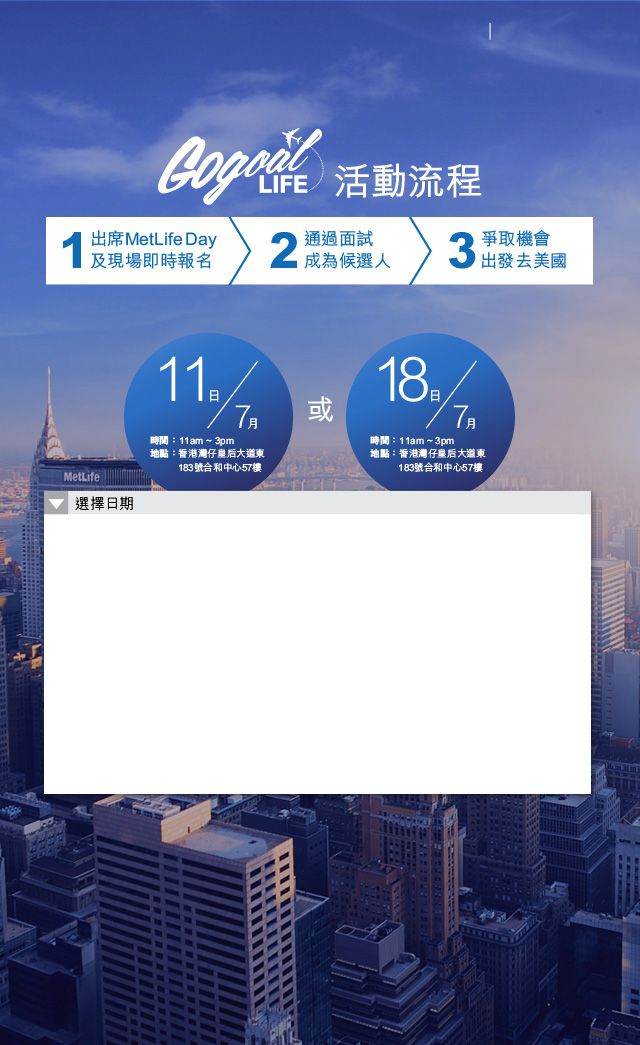
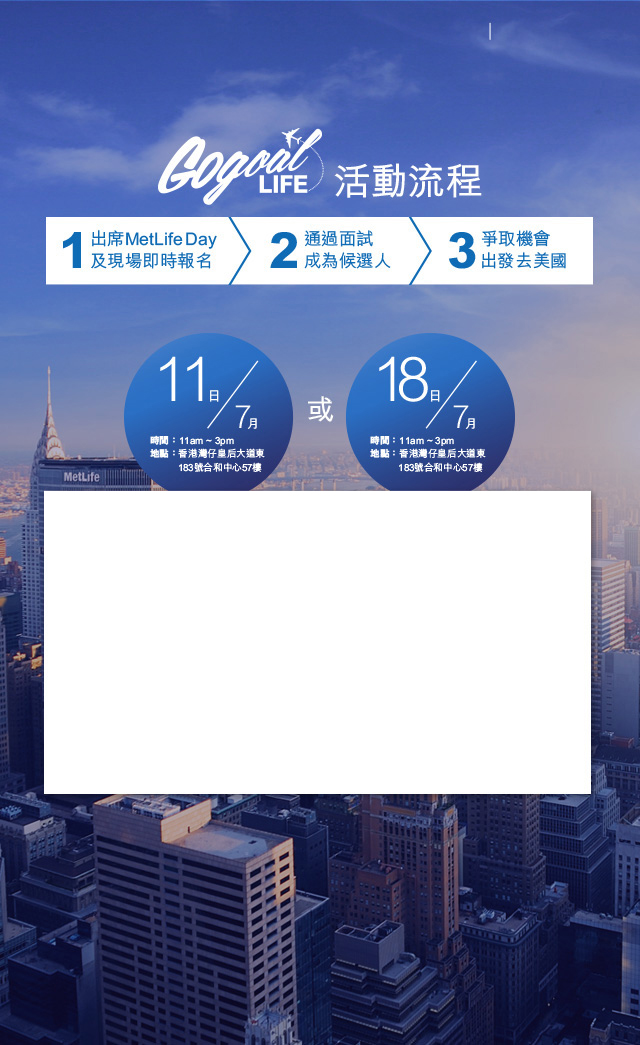
added tnc error message

Changed region(s): [[0.0625, 0.4593, 0.9375, 0.49]]

diff --git a/client/styles/main.scss b/client/styles/main.scss
@@ -40,7 +40,8 @@ canvas{ display:none !important; opacity: 0!important; }
 #form{
     height:795px; background-image: url(../images/guide-form.jpg);
     .formContainer{
-        position: absolute; width: 667px; height: 266px; top: 498px; left: 71px; overflow: scroll;
+        position: absolute; width: 667px; height: 296px; top: 470px; left: 71px; 
+        overflow-y: scroll; overflow-x: hidden;
         .container{ 
             width:667px; height:414px; padding-bottom:20px; position:relative; 
             .formUpper{ height:220px; overflow: hidden; }
@@ -77,6 +78,11 @@ canvas{ display:none !important; opacity: 0!important; }
             .tncInput{ 
                 width: 20px; text-align: center; height: 20px; top: 366px; left: 617px; 
                 position: absolute; margin: 0; 
+                .errorMsg{ 
+                    background-image: url(../images/error-message-tnc.jpg); 
+                    width: 228px; height: 14px; position: absolute; right: 0; top: 20px; display:none;
+                }
+                &.empty .errorMsg{ display:block; }
             }
             .date{ 
                 width: 100%; height: 19px; margin-top:25px;
@@ -97,7 +103,7 @@ canvas{ display:none !important; opacity: 0!important; }
                 }
             }
         }
-        .submitBtnContain{ position:absolute; bottom:-10px; left:0; width:100%; height:50px; }
+        .submitBtnContain{ position:absolute; bottom:-10px; left:0; width:100%; height:30px; }
     }
     .submitBtn{ 
         width: 154px; height: 27px; margin:0 auto;
@@ -174,7 +180,7 @@ canvas{ display:none !important; opacity: 0!important; }
     #form{ 
         height:1045px; background-image: url(../images/mobile/guide-form.jpg); 
         .formContainer { 
-            position: absolute; width: 547px; height: 280px; top: 514px; left: 44px; 
+            position: absolute; width: 547px; height: 303px; top: 491px; left: 44px; 
             #demoImage{ width:100%; }
             .container{ 
                 width: 547px; height:364px; background-position: top center; overflow: hidden;
@@ -208,6 +214,9 @@ canvas{ display:none !important; opacity: 0!important; }
                 .email{
                     .label{ background-image: url(../images/mobile/label-email.jpg); height:55px; }
                     .errorMsg{ background-image: url(../images/mobile/error-message-email.jpg); }
+                }
+                .tncInput{
+                    .errorMsg{ background-image: url(../images/mobile/error-message-tnc.jpg); }
                 }
             }
         }

diff --git a/client/scripts/main.js b/client/scripts/main.js
@@ -35,7 +35,7 @@ require(['class/SectionBase', 'class/SectionManager', 'class/CommonObject', 'cla
             submittable = false; $('.formContainer .email').addClass('empty'); 
         }
         if(!($('#formTnc').is(":checked"))){ 
-            submittable = false;
+            submittable = false; $('.formContainer .tncInput').addClass('empty'); 
         }
         if(!submittable){
             $('.formContainer').scrollTop(0);
